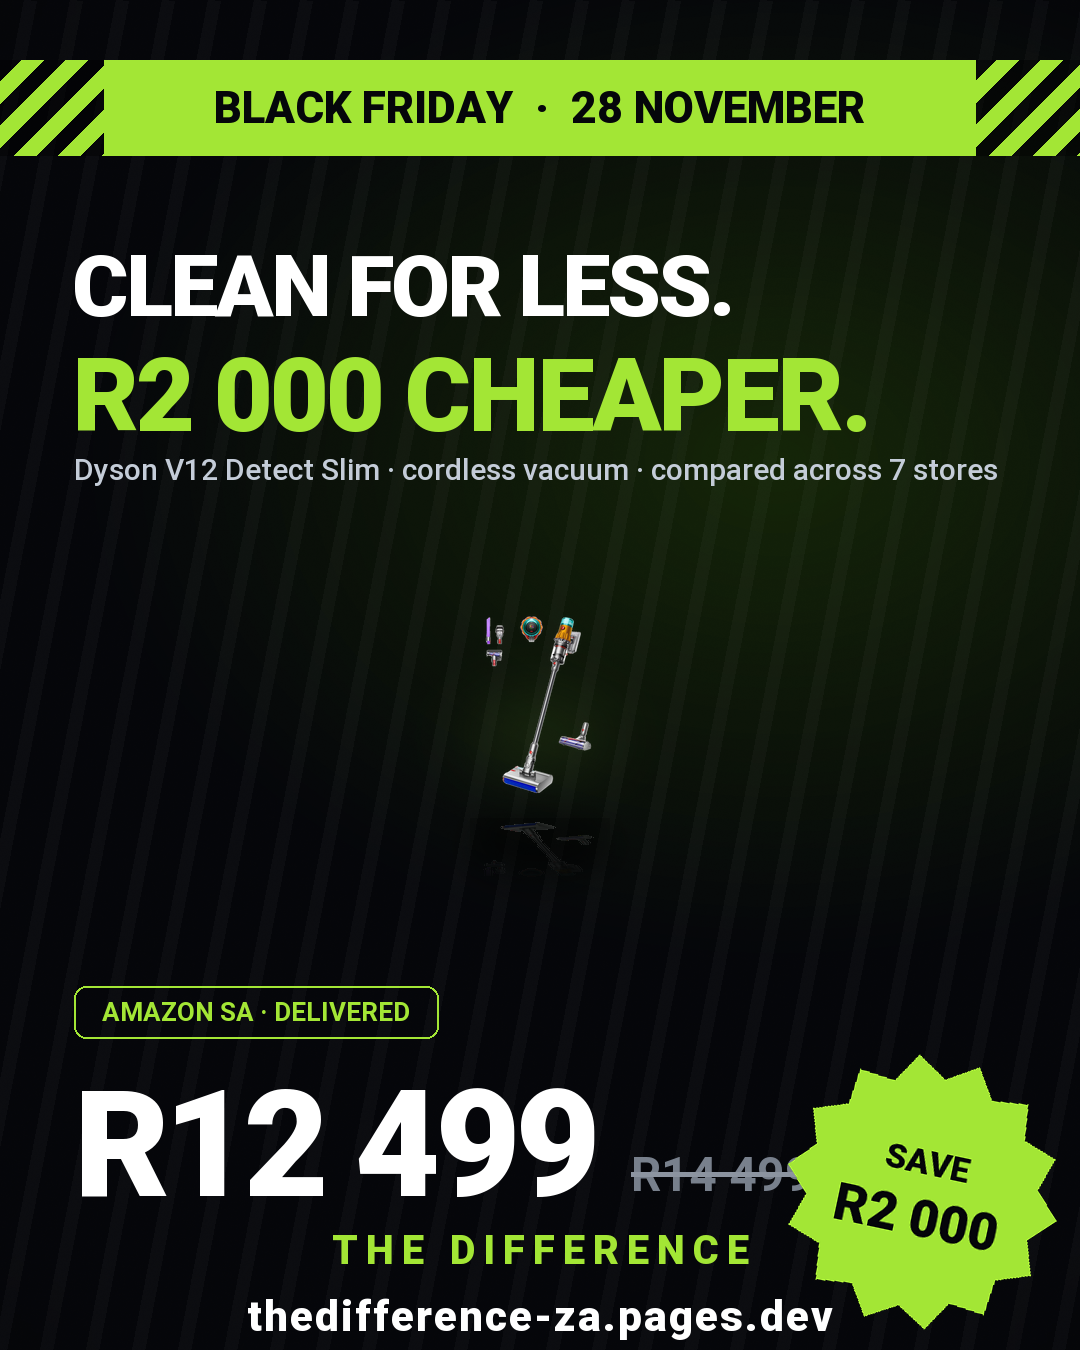
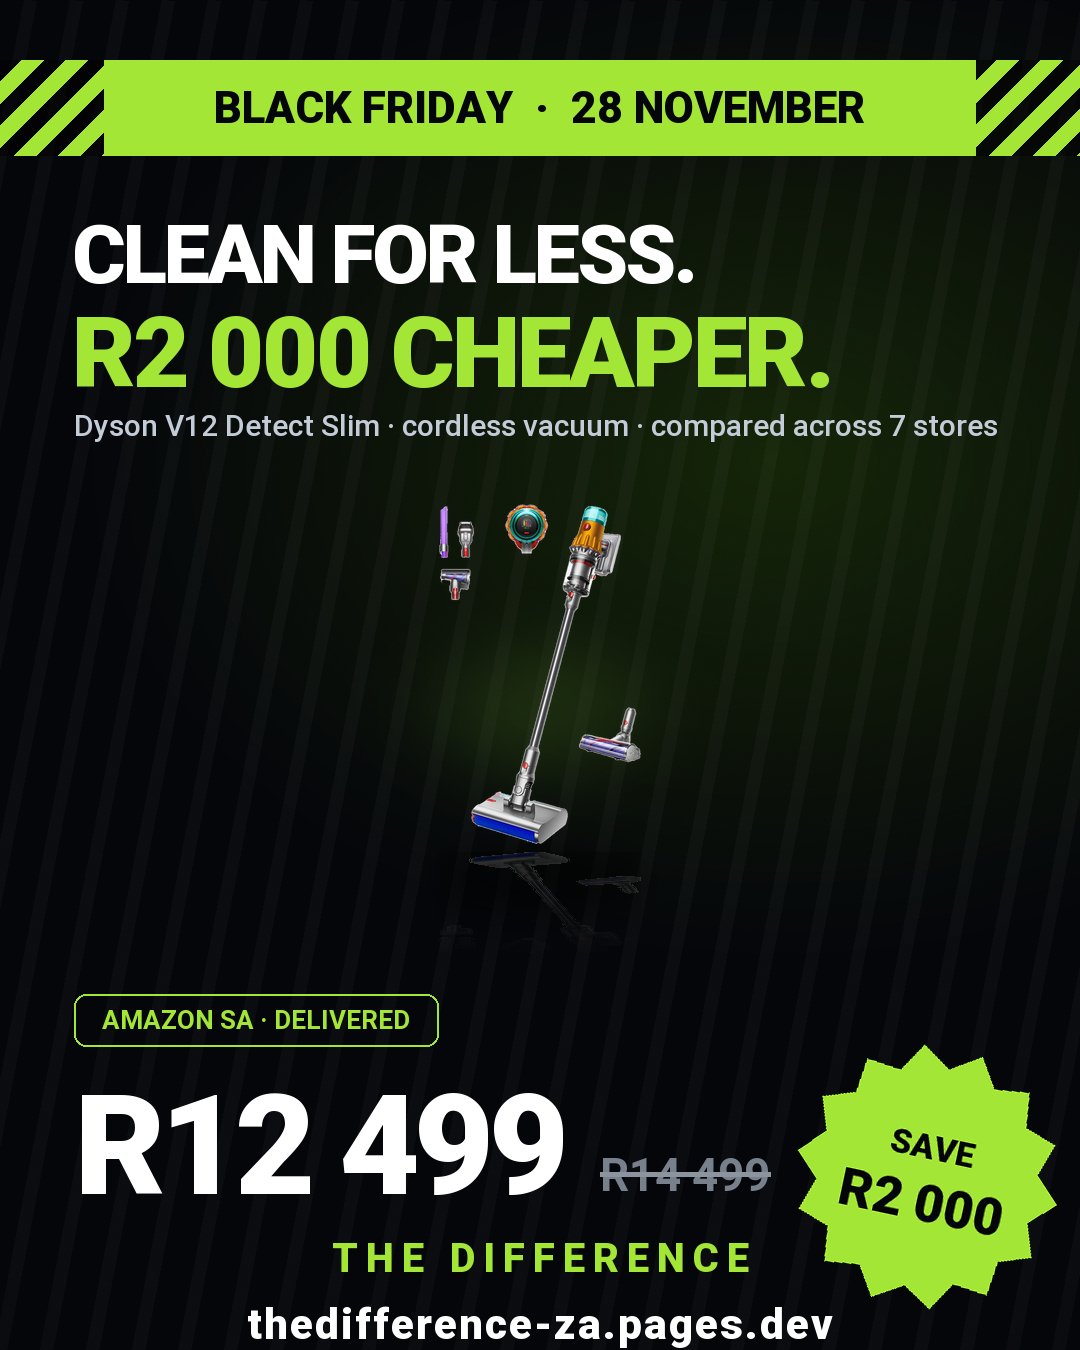
promo: enlarge product heroes — crop packshots to content, bigger stage, tighter headline block

diff --git a/scripts/make_bf_posters.py b/scripts/make_bf_posters.py
@@ -142,13 +142,13 @@ def starburst(save="SAVE\nR4 095", size=340):
 def product_hero(path, max_w, max_h):
     """Packshot with acid glow, floor shadow and reflection."""
     im = Image.open(path).convert("RGBA")
+    bbox = im.getbbox()
+    if bbox:
+        im = im.crop(bbox)
     im.thumbnail((max_w, max_h), Image.LANCZOS)
-    MAX_STAGE_H = 470
-    if im.size[1] + 260 > MAX_STAGE_H:
-        im.thumbnail((max_w, MAX_STAGE_H - 260), Image.LANCZOS)
     w, h = im.size
 
-    stage = Image.new("RGBA", (w + 320, h + 260), (0, 0, 0, 0))
+    stage = Image.new("RGBA", (w + 160, h + 200), (0, 0, 0, 0))
 
     glow = Image.new("RGBA", stage.size, (0, 0, 0, 0))
     gd = ImageDraw.Draw(glow)
@@ -158,7 +158,7 @@ def product_hero(path, max_w, max_h):
     glow = glow.filter(ImageFilter.GaussianBlur(40))
     stage = Image.alpha_composite(stage, glow)
 
-    px, py = (stage.width - w) // 2, (stage.height - h) // 2 - 30
+    px, py = (stage.width - w) // 2, (stage.height - h) // 2 - 36
     stage.alpha_composite(im, (px, py))
 
     shadow = Image.new("RGBA", stage.size, (0, 0, 0, 0))
@@ -189,33 +189,33 @@ def deal_poster(line1, line2, sub, product_file, price, was, save, store_note, o
     band = hazard_band(d, 0, 96, "BLACK FRIDAY  ·  28 NOVEMBER")
     img.paste(band, (0, 60), band)
 
-    tracked(d, (72, 236), line1, black(86), WHITE, tracking=-3)
-    tracked(d, (72, 336), line2, black(102), ACID, tracking=-3)
+    tracked(d, (72, 206), line1, black(82), WHITE, tracking=-3)
+    tracked(d, (72, 296), line2, black(98), ACID, tracking=-3)
     if sub:
-        d.text((74, 452), sub, font=medium(30), fill=(196, 204, 216))
+        d.text((74, 408), sub, font=medium(30), fill=(196, 204, 216))
 
-    hero = product_hero(os.path.join(PRODUCTS, product_file), 640, 380)
-    img.paste(hero, (int(W / 2 - hero.width / 2), 500), hero)
+    hero = product_hero(os.path.join(PRODUCTS, product_file), 760, 340)
+    img.paste(hero, (int(W / 2 - hero.width / 2), 440), hero)
 
     store, note = store_note
     f_chip = bold(26)
     ct = f"{store} · {note}"
     ctw = f_chip.getlength(ct) + 56
-    d.rounded_rectangle((74, 986, 74 + ctw, 986 + 52), radius=12, outline=ACID, width=2)
-    d.text((74 + 28, 986 + 26), ct, font=f_chip, fill=ACID, anchor="lm")
+    d.rounded_rectangle((74, 994, 74 + ctw, 994 + 52), radius=12, outline=ACID, width=2)
+    d.text((74 + 28, 994 + 26), ct, font=f_chip, fill=ACID, anchor="lm")
 
-    f_price = black(148)
-    px, py = 74, 1058
+    f_price = black(140)
+    px, py = 74, 1064
     x_end = tracked(d, (px, py), price, f_price, WHITE, tracking=-6)
-    f_was = bold(48)
+    f_was = bold(46)
     wx = x_end + 36
-    d.text((wx, py + 88), was, font=f_was, fill=(120, 128, 140))
-    d.line([(wx, py + 116), (wx + f_was.getlength(was), py + 116)], fill=(140, 148, 160), width=5)
+    d.text((wx, py + 84), was, font=f_was, fill=(120, 128, 140))
+    d.line([(wx, py + 110), (wx + f_was.getlength(was), py + 110)], fill=(140, 148, 160), width=5)
 
-    burst = starburst(save, size=290)
-    img.paste(burst, (W - burst.width + 14, 1020), burst)
+    burst = starburst(save, size=280)
+    img.paste(burst, (W - burst.width + 14, 1010), burst)
 
-    footer(d, 1226)
+    footer(d, 1234)
     img.save(os.path.join(OUT, out))
     print("wrote", out)
 
